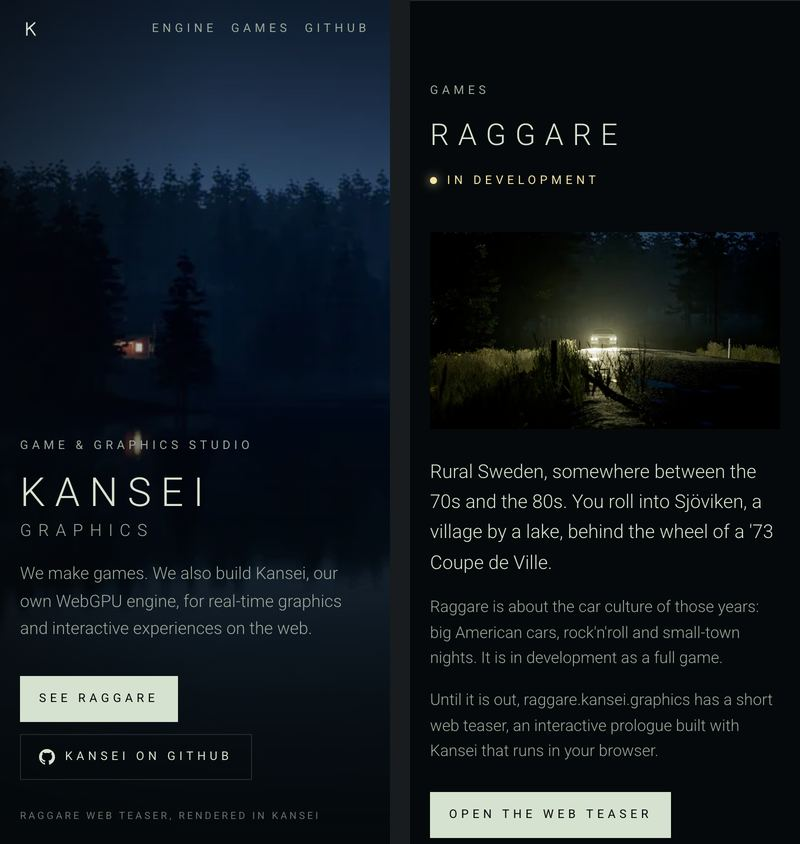
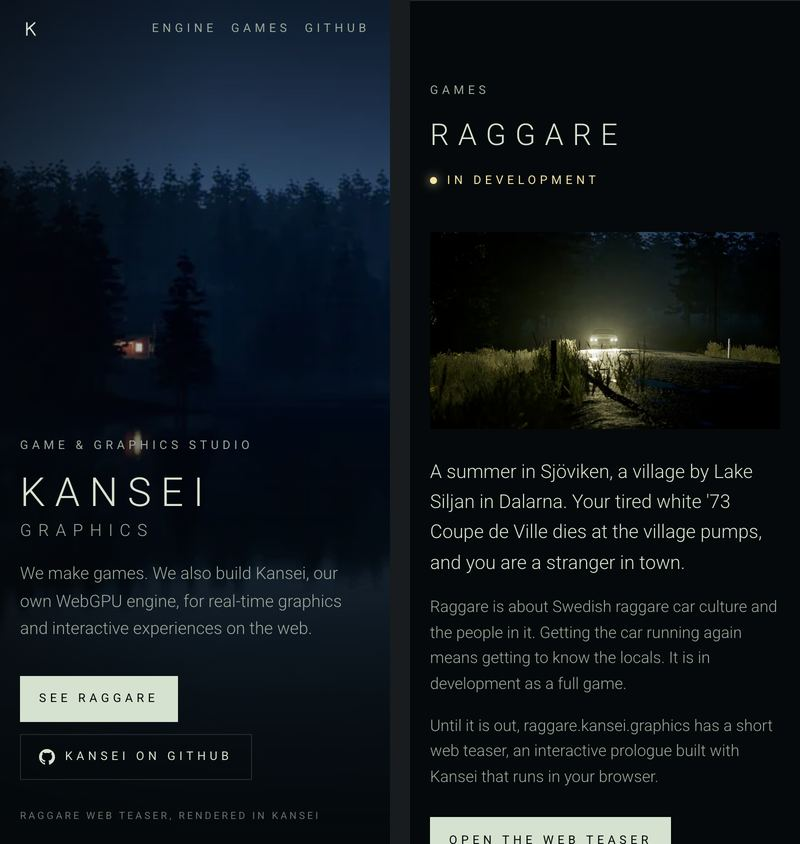
fix(site): Raggare copy no longer sets the game in a decade
Sjöviken by Lake Siljan in Dalarna, raggare car culture, the tired '73
Coupe de Ville that dies at the village pumps, a stranger and the locals.

Changed region(s): [[0.5312, 0.7085, 0.9688, 1.0], [0.5312, 0.5545, 0.9688, 0.6777], [0.6875, 0.4005, 0.8125, 0.5237]]

diff --git a/site/index.html b/site/index.html
@@ -6,7 +6,7 @@
     <title>Kansei Graphics — games and a WebGPU engine</title>
     <meta
       name="description"
-      content="Kansei Graphics is a small game and graphics studio. We are making Raggare, a game about 70s Swedish car culture, and we build Kansei, our own WebGPU engine for the web."
+      content="Kansei Graphics is a small game and graphics studio. We are making Raggare, a game about Swedish raggare car culture, and we build Kansei, our own WebGPU engine for the web."
     />
     <meta name="theme-color" content="#05090b" />
     <meta name="color-scheme" content="dark" />
@@ -182,12 +182,12 @@
           </figure>
           <div class="game-copy">
             <p>
-              Rural Sweden, somewhere between the 70s and the 80s. You roll into Sjöviken, a village by a lake, behind the
-              wheel of a '73 Coupe de Ville.
+              A summer in Sjöviken, a village by Lake Siljan in Dalarna. Your tired white '73 Coupe de Ville dies at the
+              village pumps, and you are a stranger in town.
             </p>
             <p>
-              Raggare is about the car culture of those years: big American cars, rock'n'roll and small-town nights. It is
-              in development as a full game.
+              Raggare is about Swedish raggare car culture and the people in it. Getting the car running again means
+              getting to know the locals. It is in development as a full game.
             </p>
             <p>
               Until it is out, raggare.kansei.graphics has a short web teaser, an interactive prologue built with Kansei
